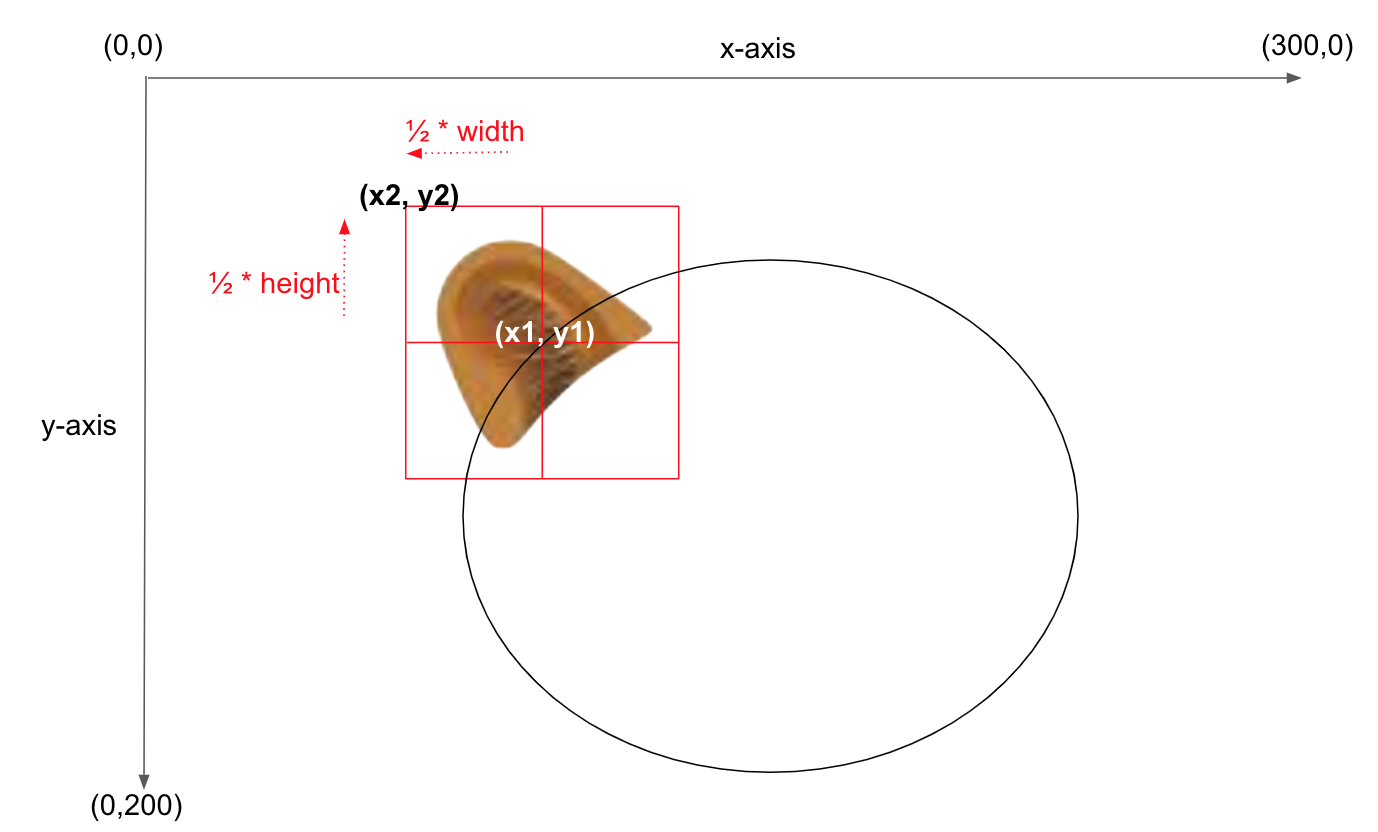
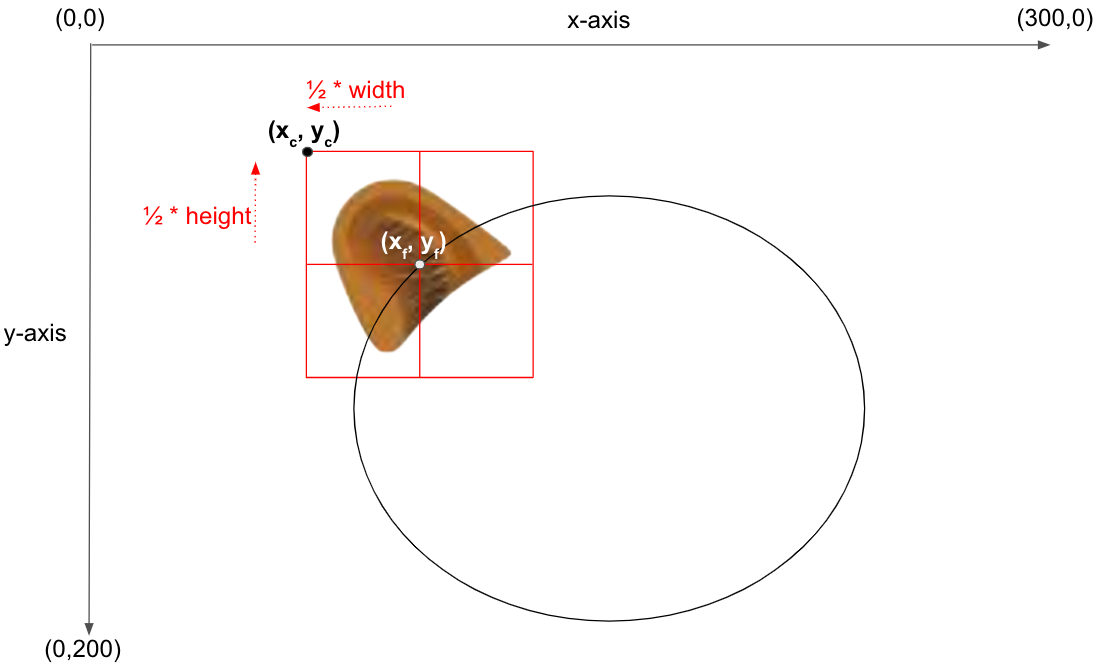
Make Changes in response to collaborators

diff --git a/yr/tutorials/facemesh.md b/yr/tutorials/facemesh.md
@@ -37,7 +37,7 @@ Feel free to click on any images in the tutorial for a magnified view.
 
 ## Facemesh Model
 
-The Facemesh model takes in the image of your face and give you the specific location of many different facial features, such as where your nose, forehead, or mouth is. Using such information, you can create facial filters; these are essentially images that follow specific points on your face.
+The Facemesh model takes in the image of your face and gives you the specific location of many different facial features, such as the X and Y coordinates of your nose, forehead, or mouth. Using such information, you can create facial filters; these are essentially images that follow specific points on your face.
 
 To access the Facemesh model, you will use the <strong>FaceExtension</strong>, which is an App Inventor tool that acts as a bridge to empower you to use the model in your own mobile app. 
 ![Bridge](../images/facemesh/bridge.png){:.enlargeImage}
@@ -52,7 +52,7 @@ A possible GUI has been created for you in the starter file. Please do not renam
 
 ![GUI of Facemesh](../images/facemesh/2.GUI.png){:.enlargeImage}
 
-The <strong>TakePhotoButton</strong>  allows the user to take a photo. The <strong>SharePhotoButton</strong> allows the user to share the most recently taken photo using any photo-sharing app installed on the device.
+The <strong>TakePhotoButton</strong>  allows the user to take a photo; it's connected to a <span class="icon" alt="texttospeech"></span><strong>TextToSpeech</strong> component that informs the user when the photo has been taken. The <strong>SharePhotoButton</strong> allows the user to share the most recently taken photo using any photo-sharing app installed on the device.
 
 The <span class="icon" alt="posenetextension"></span><strong>FaceExtension</strong> is the AI technology to track key points of a face and will give you the information needed to create the facial filter. It requires a web browser to run, so we link it the <span class="icon" alt="webviewer"></span><strong>WebViewer</strong> component. The <span class="icon" alt="webviewer"></span><strong>Webviewer’s</strong> visibility is turned off because we use the <span class="icon" alt="canvas"></span><strong>Canvas</strong> as our viewer. The <span class="icon" alt="canvas"></span><strong>Canvas</strong> component will show the live camera view background as well as the cat/lion facial filter. 
 
@@ -141,11 +141,15 @@ When you click the <strong>TakePhotoButton</strong>, the <var>mostRecentPhoto</v
 
 The reason we keep track of <var>photoCount</var> and increment by 1 is so that each picture file has a unique name. If we didn’t increment by 1, each photo you take would be writing to the same file over and over again. The reason we keep track of <var>mostRecentPhoto</var> is so that we can share this photo using the <strong>SharePhotoButton</strong>. 
 
+The <span class="icon" alt="texttospeech"></span><strong>TextToSpeech</strong> means that a robot will say "Photo Captured!" out loud when the photo is taken.
+
 ![SharePhotoButton logic](../images/facemesh/prelimBlock4.png){:.enlargeImage}
 
 When you click the <strong>SharePhotoButton</strong>, you can share the most recent photo! You’ll be able to share it using any app installed on your device that shares images, such as Google Drive, Dropbox, etc.
 
 ## Helper function
+Now we need to write some code to place the three ImageSprites (leftEar, rightEar, and whiskers) on the corresponding points on the face.
+
 Your first coding task is to fill in this helper function called <span class="procedures">placeImage</span>. 
 
 ![Incomplete placeImage procedure](../images/facemesh/placeImageIncomplete.png){:.enlargeImage}
@@ -154,33 +158,40 @@ Your first coding task is to fill in this helper function called <span class="pr
 
 Click "Next Step" for guidance on how to fill in this procedure and move the three images (<strong>leftEar</strong>, <strong>rightEar</strong>, and <strong>whiskers</strong>) to match points on the face. 
 
-## First, why is this procedure necessary?
+## Placing the ears and whiskers
 
 By calling <span class="procedures">ImageSprite.MoveTo</span> (x, y), we move the ImageSprite’s <strong>top-left corner</strong> to (x, y). 
 
-However, if we want the <strong>center</strong> of <span class="variables">img</span> to be placed on the <span class="variables">facePoint</span> (x1, y1), we have to do some simple math to get the coordinates of its top-left corner, which we will call (x2, y2).
+However, if we want the <strong>center</strong> of <span class="variables">img</span> to be placed on the <span class="variables">facePoint</span> (x<sub>f</sub>, y<sub>f</sub>), we have to do some simple math to get the coordinates of its top-left corner, which we will call (x<sub>c</sub>, y<sub>c</sub>).
 
 Note that in this x-y coordinate system of the <strong>Canvas</strong>, (0, 0) is the top left corner. The difference from the normal Cartesian coordinate system is that y increases downwards.
 
 ![Coordinate Math](../images/facemesh/6.helper.png){:.enlargeImage}
 
-In the scenario above, you want to place the left ear centered on the left forehead <span class="variables">facePoint</span> (x1, y1) returned by Facemesh.
+In the scenario above, you want to place the left ear centered on the left forehead <span class="variables">facePoint</span> (x<sub>f</sub>, y<sub>f</sub>) returned by Facemesh.
 * To get the adjusted horizontal placement
-	* <strong>x2 = x1 - 0.5 * leftEar image width</strong>
+	* <strong>x<sub>c</sub> = x<sub>f</sub> - 0.5 * image width</strong>
 * To get the adjusted vertical placement
-	* <strong>y2 = y1 - 0.5 * leftEar image height</strong>
+	* <strong>y<sub>c</sub> = y<sub>f</sub> - 0.5 * image height</strong>
 
-Thus when we call <span class="procedures">ImageSprite.MoveTo</span> (x2, y2), the image is centered on (x1, y1), which are the coordinates of the left forehead <span class="variables">facePoint</span>. 
+When we call <span class="procedures">ImageSprite.MoveTo</span> (x<sub>c</sub>, y<sub>c</sub>), the image is centered on (x<sub>f</sub>, y<sub>f</sub>), which are the coordinates of the <span class="variables">facePoint</span>.
  
 ## Fill in the procedure
 
 In the <span class="procedures">placeImage</span> procedure, your task is to
-* Fill in the <span class="procedures">x</span> argument of the <span class="procedures">ImageSprite.MoveTo</span> block to be <strong>x1 - 0.5 * image width</strong>. This is the result of subtracting half of the ImageSprite’s width from the facePoint’s x-coordinate.
+* Fill in the <span class="procedures">x</span> argument of the <span class="procedures">ImageSprite.MoveTo</span> block to be <strong>x<sub>f</sub> - 0.5 * image width</strong>. This is the result of subtracting half of the ImageSprite’s width from the facePoint’s x-coordinate.
 <br>
 <br>
-* Fill in the <span class="procedures">y</span> argument of the <span class="procedures">ImageSprite.MoveTo</span> block to be <strong>y1 - 0.5 * image height</strong>. This is the result of subtracting half of the ImageSprite’s height from the facePoint’s y-coordinate.
+* Fill in the <span class="procedures">y</span> argument of the <span class="procedures">ImageSprite.MoveTo</span> block to be <strong>y<sub>f</sub> - 0.5 * image height</strong>. This is the result of subtracting half of the ImageSprite’s height from the facePoint’s y-coordinate.
 
 Don’t worry if this is a handful right now. Click on the questions below for more help on how to complete the procedure.
+<hint markdown="block" title="How do I get the height/width of img?">
+To get the height/width of the image, you use the following blocks..
+![Get imageSprite height](../images/facemesh/placeImageHint1.png){:.enlargeImage}
+![Get imageSprite width](../images/facemesh/placeImageHint2.png){:.enlargeImage}
+To access these ImageSprite blocks shown above, click “Any component” in the Blocks menu. This will open the drop-down menu to show the following. Then click “Any ImageSprite” and you’ll find the blocks there.
+![Any Component Blocks](../images/facemesh/anyComponent.png){:.enlargeImage}
+</hint>
 <hint markdown="block" title="How do I get the number 0.5?">
 Click on the “Math” option in the Blocks, and you’ll find the number 0. You can drag this number onto the Viewer and double click on the 0 to erase the old value and insert your new value.
 ![Get 0.5](../images/facemesh/getNum.png){:.enlargeImage}
@@ -191,19 +202,12 @@ Hover your mouse over “img” for about a second in the placeImage procedure, 
 Hover your mouse over “facePoint” for about a second in the placeImage procedure, and the following will pop up. You can then drag “get facePoint”.
 ![Get Facepoint](../images/facemesh/getFacepoint.png){:.enlargeImage}
 </hint>
-<hint markdown="block" title="How do I get (x1, y1) of facePoint?">
-As mentioned earlier, each <strong>facePoint</strong> is a list of 2 items. The x-coordinate is at index 1 and the y-coordinate is at index 2. 
-* To get x1, use the following block that gets the item at index 1 from the facePoint list. 
+<hint markdown="block" title="How do I get the x, y coords of facePoint?">
+As mentioned earlier, each <strong>facePoint</strong> is a list of 2 items. The x-coordinate is at index 1 and the y-coordinate is at index 2.
+* To get x<sub>f</sub>, use the following block that gets the item at index 1 from the facePoint list.
 ![Get facepoint index 1](../images/facemesh/getFacepoint1.png){:.enlargeImage}
-* To get y1, use the following block that gets the item at index 2 from the facePoint list. 
+* To get y<sub>f</sub>, use the following block that gets the item at index 2 from the facePoint list.
 ![Get facepoint index 2](../images/facemesh/getFacepoint2.png){:.enlargeImage}
-</hint>
-<hint markdown="block" title="How do I get the height/width of img?">
-To get the height/width of the image, you use the following blocks..
-![Get imageSprite height](../images/facemesh/placeImageHint1.png){:.enlargeImage} 
-![Get imageSprite width](../images/facemesh/placeImageHint2.png){:.enlargeImage}
-To access these ImageSprite blocks shown above, click “Any component” in the Blocks menu. This will open the drop-down menu to show the following. Then click “Any ImageSprite” and you’ll find the blocks there.
-![Any Component Blocks](../images/facemesh/anyComponent.png){:.enlargeImage} 
 </hint>
 
 If you are stuck, feel free to see which blocks are needed 
@@ -213,6 +217,7 @@ If you are stuck, feel free to see which blocks are needed
 ![placeImage procedure solution](../images/facemesh/placeImageSolution.png){:.enlargeImage}
 </hint>
 </hint> 
+<br>
 
 ## Face Updated
 When the <strong>FaceExtension</strong> detects a face, it triggers the following <span class="control">FaceExtension1.FaceUpdated</span> event. This event handler’s code has also been created for you. The code for the <span class="procedures">resizing</span> procedure is given to you, but the code for the <span class="procedures">moving</span> procedure is incomplete and will soon be created by you.
@@ -240,13 +245,26 @@ Remember, <span class="procedures">placeImage</span> takes in two arguments:
 1. the <strong>ImageSprite</strong> object
 2. a face key point detected by <strong>FaceExtension</strong>. 
 
-<hint markdown="block" title="Give me a hint">
+<hint markdown="block" title="How do I get an ImageSprite?">
+![Left Ear Hint](../images/facemesh/leftEarHint.png){:.enlargeImage}
+In the Blocks, find Canvas1, and you'll see the three ImageSprites leftEar, rightEar, and whiskers underneath.
+<br>
+<br>
+If you want to get leftEar, click on leftEar and a drawer of options will show up on the right. Scroll to the bottom to find the leftEar object. You can drag it into the viewer and use it as an argument for placeImage.
+<br>
+<br>
+Follow similar steps to get rightEar and whiskers.
+</hint>
+
+If you are stuck, feel free to see which blocks are needed
+<hint markdown="block" title="Show hint">
 ![incomplete moving procedure](../images/facemesh/movingHint.png){:.enlargeImage} 
 
 <hint markdown="block" title="Check my solution">
 ![Moving procedure solution](../images/facemesh/movingProcedureSolution.png){:.enlargeImage}
 </hint>
 </hint>
+<br>
 
 ## Resizing
 Let’s explain the second procedure which is given to you: <span class="procedures">resizing</span>.
@@ -283,6 +301,22 @@ Good job! You’ve completed this character camera app! You’ve built an AI-bas
 
 # Expand your app
 
+## FaceExtension ShowMesh
+![Explain FaceExtension](../images/facemesh/showMesh.png){:.enlargeImage}
+
+In the Designer, if you click on the <span class="icon" alt="posenetextension"></span><strong>FaceExtension1</strong> component, its properties will appear on the right. You can play with some of these properties.
+
+Try checking <em>ShowMesh</em> to turn it on. This will show you a live map of all the points Facemesh identifies on your face.
+
+![Explain FaceExtension](../images/facemesh/meshOnOff.png){:.enlargeImage}
+
+## FaceExtension UseCamera
+![Explain FaceExtension](../images/facemesh/useCamera.png){:.enlargeImage}
+
+By default, <em>UseCamera</em> is set to "Front" to take selfies. Try to switch it to "Back" so you can take photos of your friends. You can also add a button that toggles between cameras. Note that if you change <em>UseCamera</em> in the blocks, you must set it to text (either "Back" or "Front").
+
+Note: A camera component is unnecessary in this app because the <span class="icon" alt="posenetextension"></span><strong>FaceExtension </strong> component accesses your device's camera for you.
+
 ## Choose your own character!
 You can 
 1. get your own images online
@@ -300,6 +334,11 @@ Here are some ideas to get you started:
 You can add two or more buttons to switch between different filters. 
 
 You would need to add some code to change the <em>Picture</em> property of the <span class="icon" alt="imageSprite"></span><strong>ImageSprites</strong> when the button is clicked.
+
+## Create a Photo Gallery
+Wouldn't it be nice to see all the photos you've taken in a gallery?
+
+You can add a second Screen, save the names of the photos taken so far, and display them as a gallery.
 
 ## Using FaceExtension AllPoints
 Actually, there are 486 points available for you to use via <span class='getters'>FaceExtension.AllPoints</span>
@@ -320,7 +359,7 @@ Here is a demo of an app where the emoji matches your facial expression.
 To get this extra interactivity in your app, you need to:
 * Have two <strong>Imagesprites</strong>, one for mouth open and one for mouth closed
 * Track the difference between the y-coordinates of your lips
-* change the <em>Visible</em> property of the different emoji <strong>Imagesprites</strong> accordingly.
+* Change the <em>Visible</em> property of the different emoji <strong>Imagesprites</strong> accordingly.
 
 # About Youth Mobile Power 
 A lot of us spend all day on our phones, hooked on our favorite apps. We keep typing and swiping, even when we know the risks phones can pose to our attention, privacy, and even our safety.  But the computers in our pockets also create untapped opportunities for young people to learn, connect and transform our communities.
